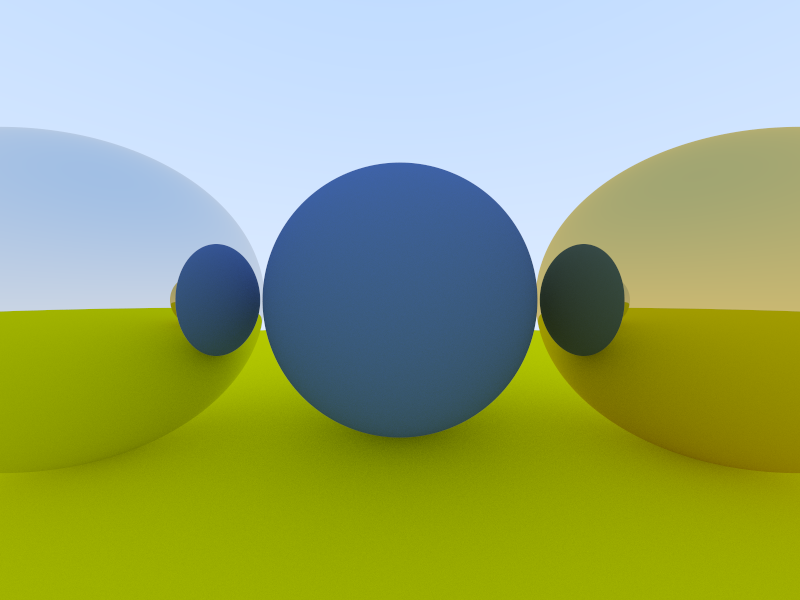
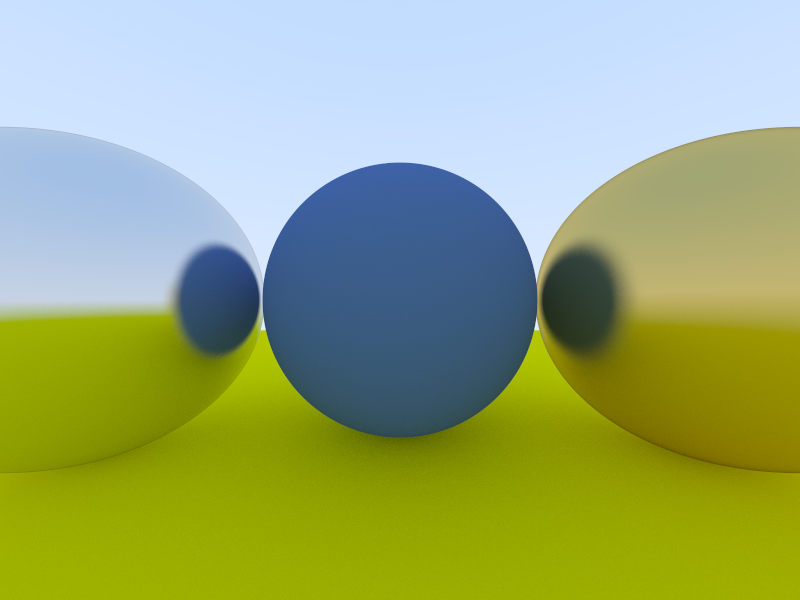
Add fuzzy metals

diff --git a/src/main.rs b/src/main.rs
@@ -51,8 +51,8 @@ fn main() {
   thread::sleep(time::Duration::from_millis(rand::rng().random::<u64>() % 1000));
   let mut objects: Vec<Box<dyn Object>> = Vec::new();
   objects.push(Box::new(Sphere::new(Lambertian::new(DVec3::new(0.1, 0.2, 0.5)), DVec3::new(0.0, 0.0, -1.2), 0.5)));
-  objects.push(Box::new(Sphere::new(Metal::new(DVec3::new(0.8, 0.8, 0.8), 0.5), DVec3::new(-1.0, 0.0, -1.0), 0.5)));
-  objects.push(Box::new(Sphere::new(Metal::new(DVec3::new(0.8, 0.6, 0.2), 0.5), DVec3::new(1.0, 0.0, -1.0), 0.5)));
+  objects.push(Box::new(Sphere::new(Metal::new(DVec3::new(0.8, 0.8, 0.8), 0.1), DVec3::new(-1.0, 0.0, -1.0), 0.5)));
+  objects.push(Box::new(Sphere::new(Metal::new(DVec3::new(0.8, 0.6, 0.2), 0.2), DVec3::new(1.0, 0.0, -1.0), 0.5)));
   objects.push(Box::new(Sphere::new(Lambertian::new(DVec3::new(0.8, 0.8, 0.0)), DVec3::new(0.0, -100.5, -1.0), 100.0)));
 
   // Camera
@@ -67,7 +67,7 @@ fn main() {
     + 0.5 * (delta_u + delta_v);
 
   // Set-up rendering settings
-  let samples: i32 = 1000;
+  let samples: i32 = 10;
   let max_bounces: i32 = 50;
 
   // Write an image

diff --git a/src/materials.rs b/src/materials.rs
@@ -54,7 +54,7 @@ impl Lambertian {
 }
 
 impl Material for Lambertian {
-  fn scatter(&self, ray: &Ray, intersection: Intersection) -> Option<(Ray, DVec3)> {
+  fn scatter(&self, _ray: &Ray, intersection: Intersection) -> Option<(Ray, DVec3)> {
     let mut scatter_direction: DVec3 = random_hemisphere_vector(intersection.normal);
 
     // Check if the generated direction is degenerate
@@ -90,7 +90,8 @@ impl Metal {
 impl Material for Metal {
   fn scatter(&self, ray: &Ray, intersection: Intersection) -> Option<(Ray, DVec3)> {
     // Reflect the ray direction around the normal
-    let reflected = reflect(ray.direction.normalize(), intersection.normal);
+    let mut reflected = reflect(ray.direction.normalize(), intersection.normal);
+    reflected = reflected.normalize() + (self.fuzz * random_unit_vector());
 
     // Apply fuzz to the reflection direction
     // let random_offset = random_hemisphere_vector() * self.fuzz;
